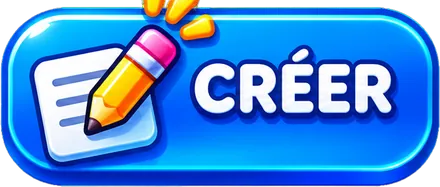
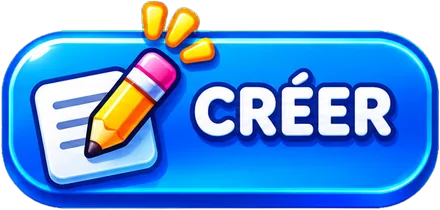
Add files via upload

diff --git a/index.html b/index.html
@@ -575,7 +575,8 @@ body.embed .sky{height:46vh}
 .imgbtn .art{width:100%;height:auto;display:block}
 .imgbtn:active{transform:scale(.96)}
 .quick2{display:grid;grid-template-columns:1fr 1fr;gap:12px;margin-top:16px}
-.quick2 .art{max-height:76px;object-fit:contain}
+.quick2 .art{max-height:92px;object-fit:contain}
+.quick2{align-items:end}
 .resume{display:flex;flex-direction:column;gap:10px;max-width:520px}
 .resume .imgbtn.play{width:200px;align-self:flex-end;margin-top:-4px}
 .set-actions .imgbtn{flex:1;min-width:140px;max-width:240px}
